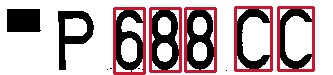
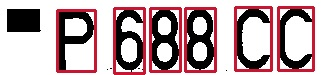
commit

Changed region(s): [[0.1502, 0.1067, 0.3003, 0.9867]]

diff --git a/Homepage/views.py b/Homepage/views.py
@@ -13,7 +13,7 @@ from django.http import HttpResponse
 
 # Create your views here.
 
-
+list_length = []
 
 def home(request):
     return render(request, 'a.html', {'titles': 'Django', 'link': 'http://127.0.0.1:8000'})
@@ -146,14 +146,14 @@ def segmentation(image):
     segment_image_binary[72:75, :] = 255
     segment_image_binary[:, 330:333] = 255
 
-    dimensions = [LP_WIDTH / 6,
-                  LP_WIDTH / 2,
+    dimensions = [LP_WIDTH / 5,
+                  LP_WIDTH / 1,
                   LP_HEIGHT / 10,
                   2 * LP_HEIGHT / 3]
     cv2.imwrite('media/contour.jpg', segment_image_binary)
 
     char_list = contouring(dimensions, segment_image_binary)
-
+    list_length.append(char_list)
     return char_list
 
 
